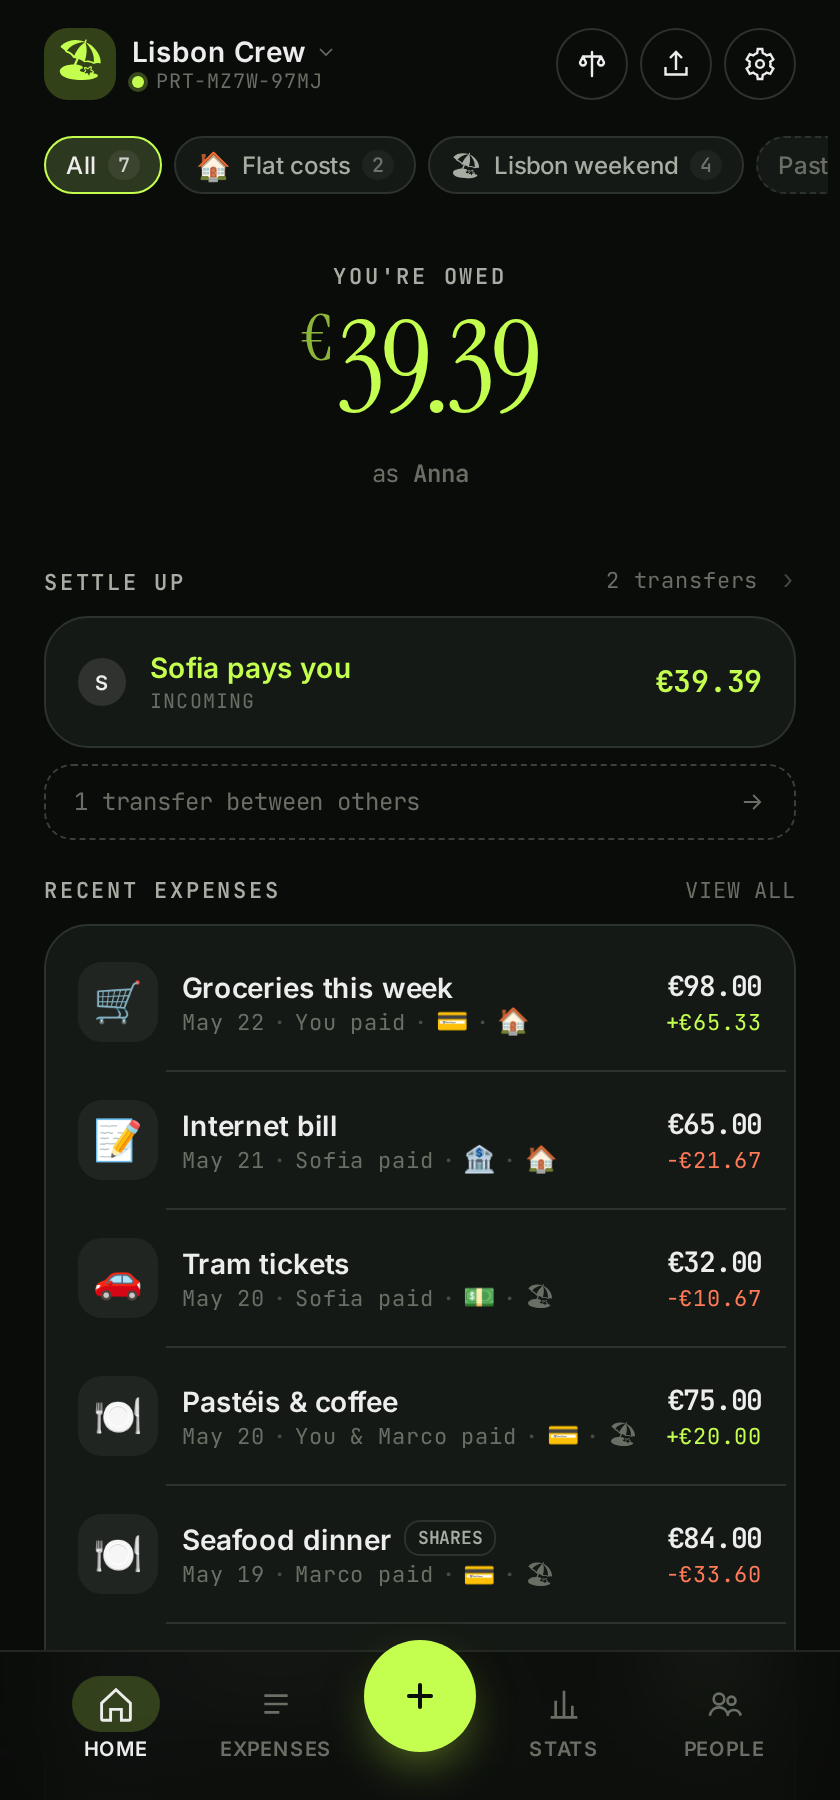
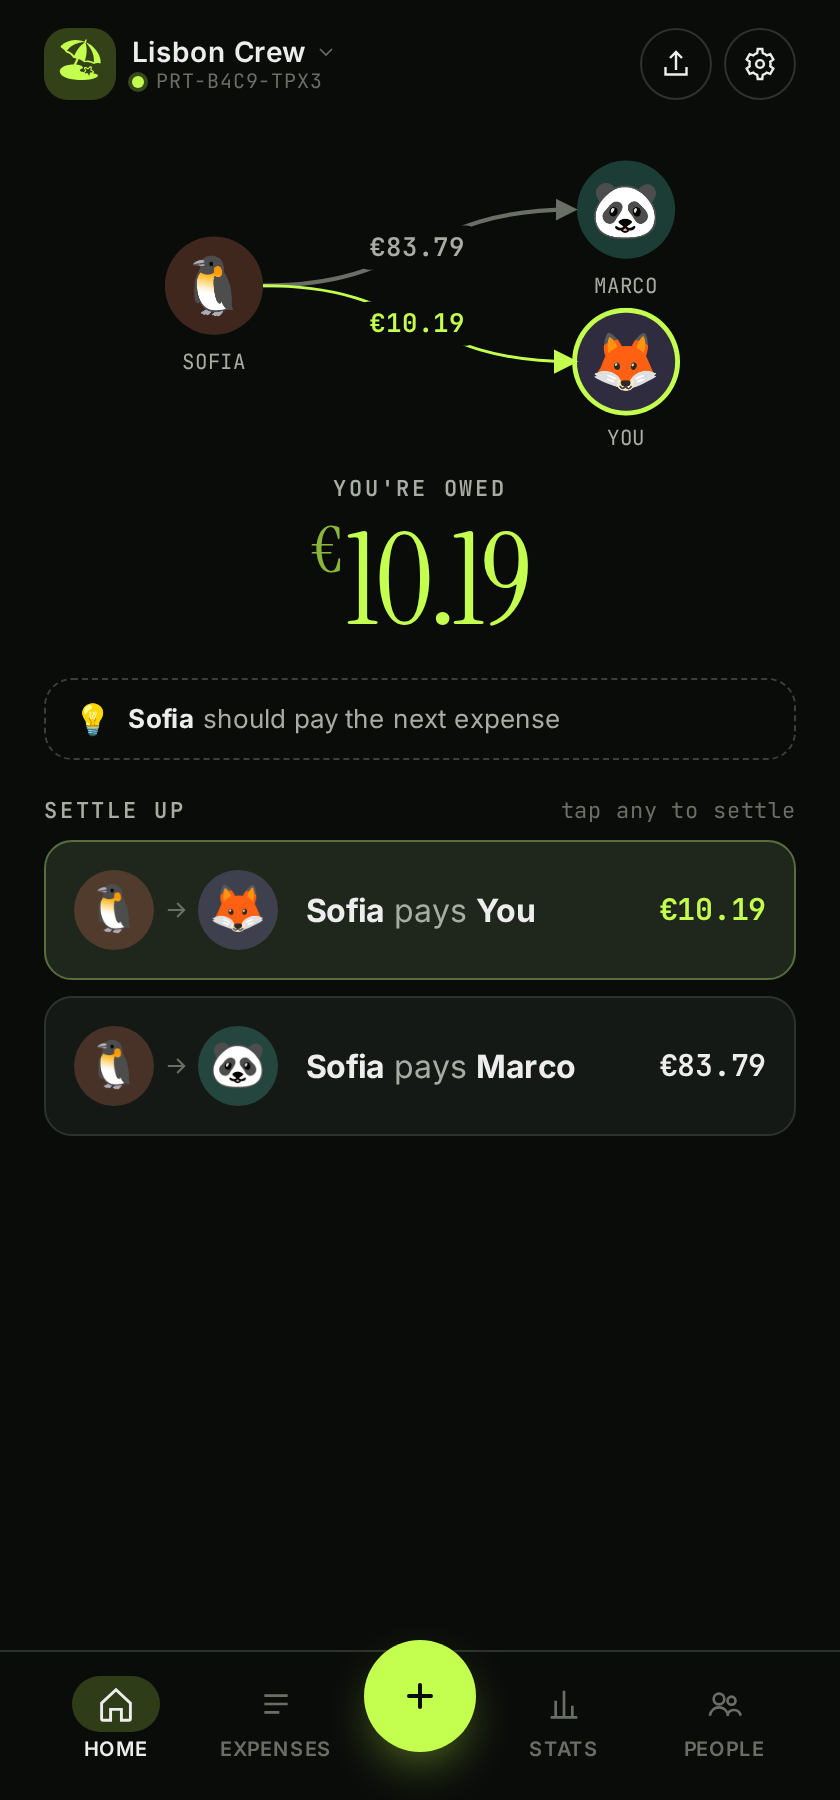
docs: document multi-currency and refresh screenshots for the new UI
Add a multi-currency feature bullet, correct the settlement-graph location
(home, not stats), and regenerate the screenshot set for the redesigned home,
the settle confirm sheet, and a multi-currency expense. Rewrite the capture
script: animal-emoji members, a foreign-currency expense, and client-side
navigation so it works against the static build.

diff --git a/scripts/screenshots.js b/scripts/screenshots.js
@@ -1,10 +1,11 @@
 /* Capture README screenshots via Playwright.
  *
- * Drives a fresh iPhone-emulated browser context against the running dev server
- * (default :5173), restores a deterministic sample project via the import flow,
- * then walks through the key screens. Outputs to docs/screenshots/.
+ * Drives a fresh iPhone-emulated browser context against a running server (dev on :5173, or
+ * point SCREENSHOT_BASE_URL at `npm run preview`), restores a deterministic sample project via
+ * the import flow, then walks the key screens. Outputs to docs/screenshots/.
  *
- * Run: npm run screenshots  (dev server must already be running on :5173)
+ * Run: npm run screenshots   (a server must be running; defaults to :5173)
+ *   or: SCREENSHOT_BASE_URL=http://localhost:4173 node scripts/screenshots.js
  */
 
 import { chromium } from 'playwright';
@@ -32,6 +33,8 @@ const archive = {
 		currency: 'EUR',
 		currencySymbol: '€',
 		defaultSplit: 'even',
+		// off so the multi-currency screenshot uses a typed rate instead of a live fetch
+		autoFetchRates: false,
 		createdAt: day(-180),
 		categories: [
 			{ id: 'cat-groceries', name: 'Groceries', emoji: '🛒' },
@@ -47,35 +50,15 @@ const archive = {
 			{ id: 'pm-bank', name: 'Bank transfer', emoji: '🏦' }
 		],
 		trips: [
-			{
-				id: 'trip-lisbon',
-				name: 'Lisbon weekend',
-				emoji: '🏖',
-				startDate: day(-5),
-				endDate: day(-2),
-				createdAt: day(-20)
-			},
-			{
-				id: 'trip-flat',
-				name: 'Flat costs',
-				emoji: '🏠',
-				startDate: day(-180),
-				createdAt: day(-180)
-			},
-			{
-				id: 'trip-ski',
-				name: 'Ski trip',
-				emoji: '⛷️',
-				startDate: day(-90),
-				endDate: day(-86),
-				createdAt: day(-100)
-			}
+			{ id: 'trip-lisbon', name: 'Lisbon weekend', emoji: '🏖', startDate: day(-5), endDate: day(-2), createdAt: day(-20) },
+			{ id: 'trip-flat', name: 'Flat costs', emoji: '🏠', startDate: day(-180), createdAt: day(-180) },
+			{ id: 'trip-ski', name: 'Ski trip', emoji: '⛷️', startDate: day(-90), endDate: day(-86), createdAt: day(-100) }
 		]
 	},
 	members: [
-		{ id: 'm-anna', name: 'Anna', createdAt: day(-180) },
-		{ id: 'm-marco', name: 'Marco', createdAt: day(-180) },
-		{ id: 'm-sofia', name: 'Sofia', createdAt: day(-180) }
+		{ id: 'm-anna', name: 'Anna', emoji: '🦊', color: 'violet', createdAt: day(-180) },
+		{ id: 'm-marco', name: 'Marco', emoji: '🐼', color: 'cyan', createdAt: day(-180) },
+		{ id: 'm-sofia', name: 'Sofia', emoji: '🐧', color: 'coral', createdAt: day(-180) }
 	],
 	expenses: [
 		{
@@ -130,21 +113,20 @@ const archive = {
 		},
 		{
 			id: 'e4',
-			payments: [
-				{ memberId: 'm-anna', amount: 4500 },
-				{ memberId: 'm-marco', amount: 3000 }
-			],
-			amount: 7500,
-			currency: 'EUR',
-			description: 'Pastéis & coffee',
-			categoryId: 'cat-restaurants',
+			payments: [{ memberId: 'm-marco', amount: 3000 }],
+			amount: 3000,
+			currency: 'USD',
+			exchangeRate: 0.92,
+			rateFetchedAt: day(-3),
+			description: 'Souvenirs (USD)',
+			categoryId: 'cat-other',
 			paymentMethodId: 'pm-card',
 			tripId: 'trip-lisbon',
 			date: day(-3),
 			splitMode: 'even',
 			splits: [{ memberId: 'm-anna' }, { memberId: 'm-marco' }, { memberId: 'm-sofia' }],
 			createdAt: day(-3),
-			createdBy: 'm-anna'
+			createdBy: 'm-marco'
 		},
 		{
 			id: 'e5',
@@ -209,7 +191,6 @@ async function main() {
 		reducedMotion: 'reduce'
 	});
 
-	// Force dark theme and disable Vite HMR overlay noise before any script runs.
 	await context.addInitScript(() => {
 		try {
 			localStorage.setItem('kostos:theme', 'dark');
@@ -222,8 +203,7 @@ async function main() {
 	page.on('pageerror', (e) => console.error('[pageerror]', e.message));
 
 	async function shot(name) {
-		const path = `${OUT_DIR}/${name}.png`;
-		await page.screenshot({ path });
+		await page.screenshot({ path: `${OUT_DIR}/${name}.png` });
 		console.log(`  ✓ ${name}.png`);
 	}
 
@@ -243,60 +223,69 @@ async function main() {
 		buffer: Buffer.from(JSON.stringify(archive))
 	});
 	await page.waitForSelector('text=Restore on this device');
-	// Anna is the first member; the picker preselects her.
 	await page.click('text=Restore on this device');
 	await page.waitForURL(/\/p\/PRT-/);
-	await page.waitForSelector('.trip-strip');
 
-	// 3. Project home (default: All)
-	await page.waitForTimeout(300); // let animations settle
+	// 3. Project home: balances hub (graph, owed/owe, tip, settle lines)
+	await page.waitForSelector('[data-page="dashboard"]');
+	await page.waitForSelector('.balance-amount');
+	await page.waitForSelector('.line');
+	await page.waitForTimeout(400);
 	await shot('02-home');
 
-	// 4. Project home filtered to Lisbon
-	await page.click('button:has-text("Lisbon weekend")');
+	// 4. Settle confirm sheet (tap a transfer)
+	await page.click('.line');
+	await page.waitForSelector('text=Record settlement');
 	await page.waitForTimeout(300);
-	await shot('03-home-lisbon');
+	await shot('03-settle');
+	await page.click('.sheet-cancel');
+	await page.waitForTimeout(250);
 
-	// 5. Add expense form
+	// 5. Add-expense form: math toolbar
 	await page.click('a[aria-label="Add expense"]');
 	await page.waitForSelector('text=New expense');
-	await page.waitForTimeout(200);
-	await shot('04-add-expense');
-
-	// 6. Amount input focused (math toolbar should appear)
 	await page.fill('.amount-input', '50/3');
 	await page.focus('.amount-input');
 	await page.waitForTimeout(400);
 	await shot('05-math-toolbar');
 
-	// 7. Settle up page
-	const roomUrl = page.url().replace(/\/add$/, '');
-	await page.goto(`${roomUrl}/settle`);
-	await page.waitForSelector('text=Settle up');
+	// 6. Multi-currency: pick a foreign currency and a stored rate
+	await page.fill('.amount-input', '45');
+	await page.fill('.title-input', 'Souvenirs');
+	await page.click('.currency-chip');
+	await page.waitForSelector('text=US Dollar');
+	await page.click('text=US Dollar');
+	await page.waitForSelector('.rate-card');
+	await page.fill('.rate-input', '0.92');
+	await page.click('.title-input'); // blur the amount so the math toolbar hides
 	await page.waitForTimeout(300);
-	await shot('06-settle');
+	await shot('04-currency');
 
-	// 8. Stats page (still scoped to Lisbon)
-	await page.goto(`${roomUrl}/stats`);
+	// The static build uses relative asset paths, so navigate client-side (clicks) rather
+	// than full-reload page.goto, which would break asset resolution on deep routes.
+	await page.click('[aria-label="Cancel"]'); // back to home from the form
+	await page.waitForSelector('[data-page="dashboard"]');
+
+	// 7. Stats
+	await page.click('a[href$="/stats"]');
 	await page.waitForSelector('.tabs-pill');
 	await page.waitForTimeout(400);
-	await shot('07-stats');
+	await shot('06-stats');
 
-	// 9. Manage trips screen
-	await page.goto(`${roomUrl}/settings/trips`);
-	await page.waitForSelector('.intro');
-	await page.waitForTimeout(300);
-	await shot('08-trips');
-
-	// 10. Settings (data section)
-	await page.goto(`${roomUrl}/settings`);
+	// 8. Settings: data section
+	await page.click('a[aria-label="Project settings"]');
 	await page.waitForSelector('text=Export backup (JSON)');
-	// Scroll down to the Data section so it's centered.
 	await page.evaluate(() => {
 		document.querySelector('.data-card')?.scrollIntoView({ block: 'center' });
 	});
 	await page.waitForTimeout(300);
-	await shot('09-data');
+	await shot('08-data');
+
+	// 9. Manage trips
+	await page.click('a[href$="/settings/trips"]');
+	await page.waitForSelector('.intro');
+	await page.waitForTimeout(300);
+	await shot('07-trips');
 
 	await browser.close();
 	console.log(`Done. ${OUT_DIR}`);

diff --git a/README.md b/README.md
@@ -19,9 +19,10 @@ Kostos is a small web app for splitting bills with friends, housemates, or trip 
 - **Conflict-free merging.** Two people editing the same expense from different devices? CRDTs reconcile without losing either edit.
 - **Three split modes.** Evenly, by weighted shares, or by precise per-person amounts. Math expressions like `(120+5)/4` work inside any amount input, and a floating row of `+ − × ÷ ( )` keys docks above the on-screen keyboard so the operators aren't trapped behind a digit-only layout.
 - **Multi-payer expenses.** When two people split the bill at dinner, both can be recorded as payers with the actual amounts each fronted.
+- **Multi-currency.** Log an expense in any currency. Kostos freezes the exchange rate onto it at creation, so the figure never drifts later, and converts everything back to the group's base currency for balances and stats. The day's rate is fetched by default (turn it off in Settings to type rates by hand) and cached per device, so adding a foreign expense works offline. Zero-decimal currencies like JPY are handled correctly.
 - **Trips.** Tag expenses to a holiday, party, or any event with its own emoji and date range. Filter the home recents and stats page to a single trip. Past trips fold into a bottom sheet 30 days after they end, keeping the chip strip short. Balances and settlements stay global across the whole group.
-- **Settle up.** A minimum-transfer plan suggests the fewest payments needed to bring everyone to zero. Mark them paid and they become regular settlement expenses.
-- **Stats.** Per-period spend, daily/weekly/monthly bars, by-category donut, who-paid bars, biggest expenses, and a settlement graph for small groups.
+- **Settle up.** A minimum-transfer plan suggests the fewest payments needed to bring everyone to zero. The home screen draws it as a payers-to-receivers graph; tap any transfer to record it as a settlement expense.
+- **Stats.** Per-period spend, daily/weekly/monthly bars, by-category donut, who-paid bars, and biggest expenses.
 - **Backup and restore.** Export any project as JSON (lossless backup) or CSV (one row per expense for spreadsheets) from Settings > Data. Drop a JSON file back into a new project to restore members, categories, payment methods, trips, and every expense.
 - **QR invites.** Show the QR on one phone, scan on the other, you're in.
 - **Multi-group.** A single device can hold many groups; switch between them from the landing.
@@ -31,16 +32,16 @@ Kostos is a small web app for splitting bills with friends, housemates, or trip 
 <table>
 <tr>
 <td align="center" width="33%">
-<img src="docs/screenshots/02-home.png" width="240" alt="Project home with trip chip strip, balance, and recents" /><br/>
-<sub>Project home</sub>
+<img src="docs/screenshots/02-home.png" width="240" alt="Project home with the settlement graph, your balance, and the who-owes-who list" /><br/>
+<sub>Balances home</sub>
 </td>
 <td align="center" width="33%">
-<img src="docs/screenshots/03-home-lisbon.png" width="240" alt="Recents filtered to the Lisbon trip" /><br/>
-<sub>Filtered by trip</sub>
-</td>
-<td align="center" width="33%">
-<img src="docs/screenshots/06-settle.png" width="240" alt="Settle up page with minimum-transfer graph" /><br/>
+<img src="docs/screenshots/03-settle.png" width="240" alt="Settlement confirmation sheet for a single transfer" /><br/>
 <sub>Settle up</sub>
+</td>
+<td align="center" width="33%">
+<img src="docs/screenshots/04-currency.png" width="240" alt="Adding an expense in USD with a stored exchange rate" /><br/>
+<sub>Multi-currency</sub>
 </td>
 </tr>
 <tr>
@@ -49,11 +50,11 @@ Kostos is a small web app for splitting bills with friends, housemates, or trip 
 <sub>Math toolbar</sub>
 </td>
 <td align="center" width="33%">
-<img src="docs/screenshots/07-stats.png" width="240" alt="Stats page scoped to Lisbon trip" /><br/>
-<sub>Stats per trip</sub>
+<img src="docs/screenshots/06-stats.png" width="240" alt="Stats page with spend and who-paid breakdowns" /><br/>
+<sub>Stats</sub>
 </td>
 <td align="center" width="33%">
-<img src="docs/screenshots/08-trips.png" width="240" alt="Manage trips screen with Active and Past sections" /><br/>
+<img src="docs/screenshots/07-trips.png" width="240" alt="Manage trips screen with active and past trips" /><br/>
 <sub>Manage trips</sub>
 </td>
 </tr>